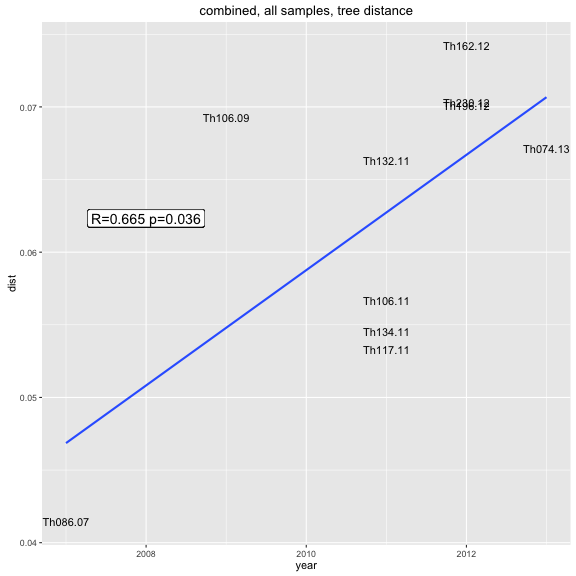
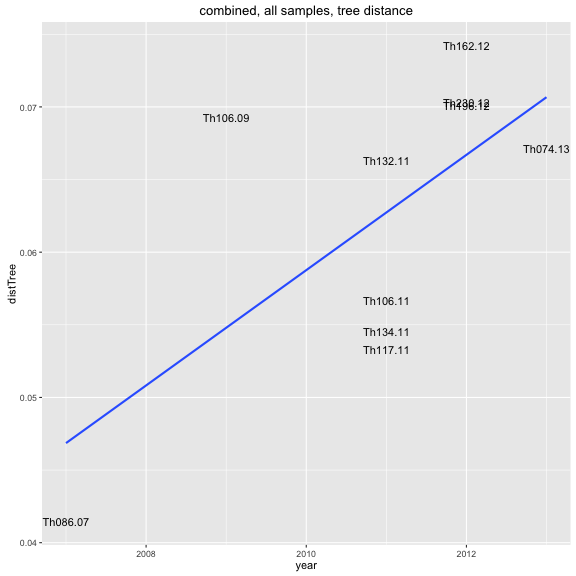
final MEP analysis

Changed region(s): [[0.1562, 0.3438, 0.375, 0.4062], [0.0, 0.4688, 0.0312, 0.5312]]

diff --git a/reports/161207_measurably_evolving_pop2/MEP.md b/reports/161207_measurably_evolving_pop2/MEP.md
@@ -1073,8 +1073,26 @@ distmatM["Th106.09","Th074.13"]
 #     }
 # }
 
-MRCAdist <- data.frame("name"=cl1,"year"=meta[cl1,"year"],"dist"=as.matrix(distfromMRCA)["MRCA",cl1],"dist2"=distmatM["MRCA",cl1],"distAbs"=distmatMabs["MRCA",cl1])
+MRCAdist <- data.frame("name"=cl1,"year"=meta[cl1,"year"],"distTree"=as.matrix(distfromMRCA)["MRCA",cl1],"distRel"=distmatM["MRCA",cl1],"distAbs"=distmatMabs["MRCA",cl1])
 
+MRCAdist 
+```
+
+```
+##              name year   distTree     distRel distAbs
+## Th196.12 Th196.12 2012 0.07006410 0.018066507     527
+## Th230.12 Th230.12 2012 0.07028734 0.016467682     480
+## Th132.11 Th132.11 2011 0.06630099 0.016916003     493
+## Th162.12 Th162.12 2012 0.07424180 0.017927190     521
+## Th074.13 Th074.13 2013 0.06713015 0.017423388     510
+## Th106.09 Th106.09 2009 0.06923494 0.015259025     443
+## Th134.11 Th134.11 2011 0.05456517 0.007426674     217
+## Th117.11 Th117.11 2011 0.05332143 0.008183306     240
+## Th106.11 Th106.11 2011 0.05670185 0.008363898     244
+## Th086.07 Th086.07 2007 0.04148994 0.005029940     147
+```
+
+```r
 plot(discotree)
 ```
 
@@ -1082,35 +1100,49 @@ plot(discotree)
 
 ```r
 tdcor <- cor.test(MRCAdist$year,MRCAdist$dist)
+```
+
+```
+## Error in cor.test.default(MRCAdist$year, MRCAdist$dist): 'x' and 'y' must have the same length
+```
+
+```r
 cor.test(MRCAdist$year,MRCAdist$dist)
 ```
 
 ```
-## 
-## 	Pearson's product-moment correlation
-## 
-## data:  MRCAdist$year and MRCAdist$dist
-## t = 2.5164, df = 8, p-value = 0.03601
-## alternative hypothesis: true correlation is not equal to 0
-## 95 percent confidence interval:
-##  0.06031779 0.91245325
-## sample estimates:
-##       cor 
-## 0.6647003
+## Error in cor.test.default(MRCAdist$year, MRCAdist$dist): 'x' and 'y' must have the same length
 ```
 
 ```r
-ggplot(MRCAdist,aes(x=year,y=dist,label=name)) + geom_text() + geom_smooth(method="lm",se=F)+
+ggplot(MRCAdist,aes(x=year,y=distTree,label=name)) + geom_text() + geom_smooth(method="lm",se=F)+
       geom_label(x=2008,y=mean(MRCAdist$dist),label=paste("R=",round(tdcor$estimate,3)," p=",round(tdcor$p.value,4),sep=""),size=5) + 
       ggtitle("combined, all samples, tree distance")
+```
+
+```
+## Warning in mean.default(MRCAdist$dist): argument is not numeric or logical:
+## returning NA
+```
+
+```
+## Warning: Removed 10 rows containing missing values (geom_label).
 ```
 
 ![plot of chunk unnamed-chunk-21](figure/unnamed-chunk-21-3.png)
 
 ```r
-ggplot(MRCAdist,aes(x=year,y=dist2,label=name)) + geom_text() + geom_smooth(method="lm",se=F)+
+ggplot(MRCAdist,aes(x=year,y=distRel,label=name)) + geom_text() + geom_smooth(method="lm",se=F)+
       geom_label(x=2008,y=mean(MRCAdist$dist2),label=paste("R=",round(tdcor$estimate,3)," p=",round(tdcor$p.value,4),sep=""),size=5) + 
       ggtitle("combined, all samples, prop distance")
+```
+
+```
+## Warning in mean.default(MRCAdist$dist2): argument is not numeric or
+## logical: returning NA
+
+## Warning in mean.default(MRCAdist$dist2): Removed 10 rows containing missing
+## values (geom_label).
 ```
 
 ![plot of chunk unnamed-chunk-21](figure/unnamed-chunk-21-4.png)
